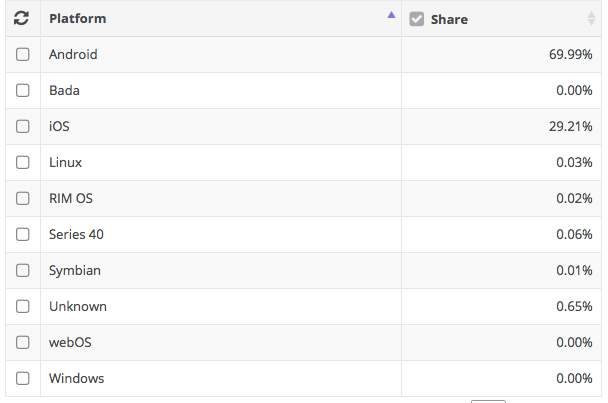
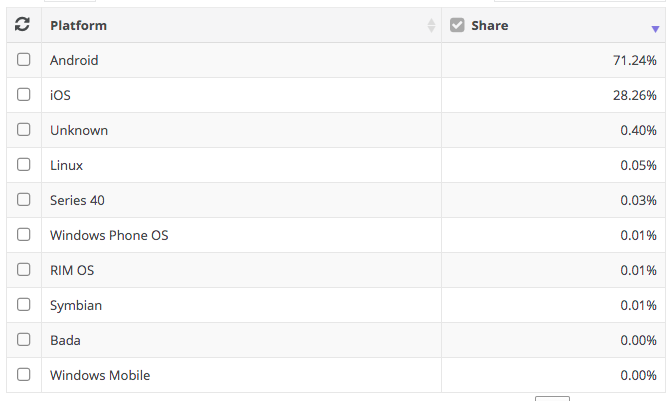
intro-android link update

diff --git a/intro-android/intro_android.html b/intro-android/intro_android.html
@@ -258,6 +258,8 @@ div.polaroid {
 }
 </style>
 
+<p><a href="https://kwanulee.github.io/AndroidProgramming/#1"><strong>목차</strong>: 안드로이드 개요</a></p>
+
 <h1 id="toc_0">안드로이드 소개</h1>
 
 <h2 id="toc_1">1. 안드로이드란?</h2>
@@ -302,19 +304,19 @@ div.polaroid {
 <ul>
 <li><p><strong>운영체제 (Operating System)</strong>은 시스템 하드웨어(CPU, Memory, IO Device)를 관리할 뿐 아니라 응용 소프트웨어를 실행하기 위하여 하드웨어 추상화 플랫폼과 공통 시스템 서비스를 제공하는 시스템 소프트웨어이다. [<a href="https://ko.wikipedia.org/wiki/%EC%9A%B4%EC%98%81_%EC%B2%B4%EC%A0%9C">1</a>]</p>
 
-<p><img src="https://upload.wikimedia.org/wikipedia/ko/thumb/a/a3/Operating_system_placement_kor.png/200px-Operating_system_placement_kor.png"></p></li>
+<p><img src="https://upload.wikimedia.org/wikipedia/commons/thumb/a/a3/Operating_system_placement_kor.png/180px-Operating_system_placement_kor.png"></p></li>
 <li><p><strong>모바일 운영체제</strong>는 모바일 기기에서 실행되는 운영체제</p>
 
 <ul>
 <li>모바일 하드웨어 자원을 직접 제어하고 관리</li>
 <li>모바일 앱 (응용 소프트웨어)를 실행하기 위한 플랫폼을 제공</li>
 </ul></li>
-<li><p>모바일 운영체제의 종류 및 시장 점유률 (2020.2)</p>
+<li><p>모바일 운영체제의 종류 및 시장 점유률 (2021.1)</p>
 
 <p><img src="figure/market_share.png"></p>
 
 <ul>
-<li>출처: <a href="https://netmarketshare.com">https://netmarketshare.com</a></li>
+<li>출처: <a href="https://netmarketshare.com/operating-system-market-share.aspx?options=%7B%22filter%22%3A%7B%22%24and%22%3A%5B%7B%22deviceType%22%3A%7B%22%24in%22%3A%5B%22Mobile%22%5D%7D%7D%5D%7D%2C%22dateLabel%22%3A%22Trend%22%2C%22attributes%22%3A%22share%22%2C%22group%22%3A%22platform%22%2C%22sort%22%3A%7B%22share%22%3A-1%7D%2C%22id%22%3A%22platformsMobile%22%2C%22dateInterval%22%3A%22Monthly%22%2C%22dateStart%22%3A%222019-11%22%2C%22dateEnd%22%3A%222020-10%22%2C%22segments%22%3A%22-1000%22%7D">https://netmarketshare.com/operating-system-market-share.aspx?options=%7B%22filter%22%3A%7B%22%24and%22%3A%5B%7B%22deviceType%22%3A%7B%22%24in%22%3A%5B%22Mobile%22%5D%7D%7D%5D%7D%2C%22dateLabel%22%3A%22Trend%22%2C%22attributes%22%3A%22share%22%2C%22group%22%3A%22platform%22%2C%22sort%22%3A%7B%22share%22%3A-1%7D%2C%22id%22%3A%22platformsMobile%22%2C%22dateInterval%22%3A%22Monthly%22%2C%22dateStart%22%3A%222019-11%22%2C%22dateEnd%22%3A%222020-10%22%2C%22segments%22%3A%22-1000%22%7D</a></li>
 </ul></li>
 </ul>
 
@@ -473,10 +475,16 @@ div.polaroid {
 <td>29</td>
 </tr>
 <tr>
-<td></td>
+<td><strong>R</strong></td>
 <td>Android 11</td>
-<td>2020년 2월</td>
+<td>2020년 9월</td>
 <td>30</td>
+</tr>
+<tr>
+<td><strong>S</strong></td>
+<td>Android 12 (preview)</td>
+<td>2021년 2월</td>
+<td>31</td>
 </tr>
 </tbody>
 </table>
@@ -553,6 +561,10 @@ div.polaroid {
 <li><a href="https://ko.wikipedia.org/wiki/%EC%9A%B4%EC%98%81_%EC%B2%B4%EC%A0%9C">https://ko.wikipedia.org/wiki/운영_체제</a></li>
 <li><a href="https://developer.android.com/guide/platform/">https://developer.android.com/guide/platform/</a></li>
 </ol>
+
+<hr>
+
+<p><a href="install_dev_env.html"><strong>다음 학습</strong>: 개발환경 설치</a></p>
 
 
 

diff --git a/intro-android/install_dev_env.html b/intro-android/install_dev_env.html
@@ -265,6 +265,8 @@ div.polaroid2 {
 
 </style>
 
+<p><a href="intro_android.html"><strong>이전 학습</strong>: 안드로이드 소개</a></p>
+
 <h1 id="toc_0">개발환경 설치</h1>
 
 <ol>
@@ -328,6 +330,11 @@ div.polaroid2 {
     <img src="figure/agreement.JPG">
 </div></li>
 <li><p>다운로드한 파일을 더블클릭하여 설치마법사의 안내에 따라 설치</p>
+
+<ul>
+<li>2021년 2월 현재, Android Studio 최신버전은 <strong>4.1.1</strong></li>
+<li>다음 화면 캡처는 <strong>3.5.3</strong> 버전의 설치과정이나, 최신버전의 설치과정과 유사함.</li>
+</ul>
 
 <div class="polaroid2">
     <img src="figure/as-setup1.PNG">
@@ -421,17 +428,21 @@ div.polaroid2 {
 <ul>
 <li>Android SDK Build-Tools</li>
 <li>Android SDK Platform-Tools</li>
-<li>Android SDK Tools</li>
 <li>Android Emulator</li>
 </ul></li>
 <li>추가 지원 도구
 
 <ul>
 <li>Intel X86 Emulator Accerlerator (HAXM installer)</li>
+<li>Google Play services</li>
 </ul></li>
 </ul></li>
 </ul></li>
 </ol>
+
+<hr>
+
+<p><a href="start-android-project.html"><strong>다음 학습</strong>: 안드로이드 앱 시작하기</a></p>
 
 
 

diff --git a/intro-android/start-android-project.html b/intro-android/start-android-project.html
@@ -258,6 +258,8 @@ div.polaroid {
 }
 </style>
 
+<p><a href="install_dev_env.html"><strong>이전 학습</strong>: 개발환경 설치</a></p>
+
 <h1 id="toc_0">안드로이드 앱 시작하기</h1>
 
 <ol>

diff --git a/Readme.md b/Readme.md
@@ -2,25 +2,28 @@
 # 안드로이드 프로그래밍 강의자료
 
 
+<a name="1"></a>
 ## 1. 안드로이드 개요
-
 - [안드로이드 소개](http://kwanulee.github.io/AndroidProgramming/intro-android/intro_android.html) 
 - [개발환경 설치](http://kwanulee.github.io/AndroidProgramming/intro-android/install_dev_env.html) 
 - [안드로이드 앱 시작하기](http://kwanulee.github.io/AndroidProgramming/intro-android/start-android-project.html)   
 
+<a name="2"></a>
 ## 2. 안드로이드 앱 프로젝트
 - [안드로이드 앱 기본](http://kwanulee.github.io/AndroidProgramming/android-project/android_app_basic.html)
 - [안드로이드 앱 프로젝트 기본](http://kwanulee.github.io/AndroidProgramming/android-project/android_project_basic.html)
 - [프로젝트 빌드](http://kwanulee.github.io/AndroidProgramming/android-project/project-build.html)
 - [[실습]](http://kwanulee.github.io/AndroidProgramming/android-project/안드로이드_프로젝트_실습.html) 
 
+<a name="3"></a>
 ## 3. 안드로이드 UI
 - [안드로이드 UI 기본](http://kwanulee.github.io/AndroidProgramming/android-ui/ui-intro.html)
 - [뷰: 위젯 (Widget)](https://kwanulee.github.io/AndroidProgramming/android-ui/ui-widget.html)
 - [뷰그룹: 레이아웃 (Layout)](https://kwanulee.github.io/AndroidProgramming/android-ui/ui-layout.html)
 - [Margin, Padding, Gravity](https://kwanulee.github.io/AndroidProgramming/android-ui/ui-mpg.html)
 - [[실습]](http://kwanulee.github.io/AndroidProgramming/android-ui/안드로이드_UI_실습.html)
- 
+
+<a name="4"></a> 
 ## 4. 어댑터 뷰 (Adapter View)
 - [어댑터뷰 개념](http://kwanulee.github.io/AndroidProgramming/adapter-view/adapterview.html)
 - [리스트뷰](http://kwanulee.github.io/AndroidProgramming/adapter-view/listview.html)
@@ -28,38 +31,44 @@
 - [커스텀항목뷰](http://kwanulee.github.io/AndroidProgramming/adapter-view/custom-item-view.html)
 - [[실습]](http://kwanulee.github.io/AndroidProgramming/adapter-view/adapterview-practice.html)
 
+<a name="5"></a>
 ## 5. 액티비티와 인텐트 (Activity and Intent)
 - [액티비티](http://kwanulee.github.io/AndroidProgramming/activity-intent/activity.html) 
 - [인텐트](http://kwanulee.github.io/AndroidProgramming/activity-intent/intent.html) 
 - [액티비티 간의 통신](http://kwanulee.github.io/AndroidProgramming/activity-intent/activity-communication.html) 
 - [액티비티 수명주기](http://kwanulee.github.io/AndroidProgramming/activity-intent/activity-lifecycle.html) 
 
+<a name="6"></a>
 ## 6. 프래그먼트 (Fragment)
 - [프래그먼트 개요](http://kwanulee.github.io/AndroidProgramming/fragment/fragment-overview.html) 
 - [프래그먼트 사용하기](http://kwanulee.github.io/AndroidProgramming/fragment/fragment-usage.html) 
 - [프래그먼트 예제](http://kwanulee.github.io/AndroidProgramming/fragment/fragment-example.html) 
 - [[실습]](http://kwanulee.github.io/AndroidProgramming/fragment/fragment-practice.html)
 
+<a name="7"></a>
 ## 7. 탐색 (Navigation)
 - [앱바와 액션 추가 및 처리](http://kwanulee.github.io/AndroidProgramming/navigation/actionbar.html)
 - [Swipe Views with Tabs](http://kwanulee.github.io/AndroidProgramming/navigation/swiping-views.html)
 
+<a name="8"></a>
 ## 8. 데이터 저장 및 관리 1
 - [설정](http://kwanulee.github.io/AndroidProgramming/data-management/sharedpreferences.html) 
 - [파일](http://kwanulee.github.io/AndroidProgramming/data-management/file.html) 
 
 
-
+<a name="9"></a>
 ## 9. 데이터베이스
 - [데이터베이스, SQL 기본](http://kwanulee.github.io/AndroidProgramming/data-management/database_overview.html) 
 - [SQLite 라이브러리 시작하기](http://kwanulee.github.io/AndroidProgramming/data-management/sqlite.html) 
 - [[실습]](http://kwanulee.github.io/AndroidProgramming/data-management/datamanagement_lab.html)
 
+<a name="10"></a>
 ## 10. Content Provider
 - [콘텐츠 제공자](http://kwanulee.github.io/AndroidProgramming/data-management/content-provider.html) 
 - [캘린더 제공자](http://kwanulee.github.io/AndroidProgramming/data-management/calendar-provider.html)
 -  [[실습]](http://kwanulee.github.io/AndroidProgramming/data-management/sqlite-content-provider-lab.html)
 
+<a name="11"></a>
 ## 11. 멀티미디어
 - [오디오 재생하기](http://kwanulee.github.io/AndroidProgramming/multimedia/multimedia.html#1)
 - [동영상 재생하기](http://kwanulee.github.io/AndroidProgramming/multimedia/multimedia.html#2)
@@ -69,25 +78,21 @@
 
 -  [[실습]](http://kwanulee.github.io/AndroidProgramming/multimedia/multimedia_lab.html)
 
+<a name="12"></a>
 ## 12. 위치 기반 서비스 및 지도
 - [위치기반 서비스](http://kwanulee.github.io/AndroidProgramming/location_map/location.html) 
 - [지도](http://kwanulee.github.io/AndroidProgramming/location_map/map.html) 
 -  [[실습]](http://kwanulee.github.io/AndroidProgramming/location_map/location-map-lab.html)
 
-
+<a name="13"></a>
 ## 13. 서비스와 브로드캐스트 리시버, 알림
 - [서비스](http://kwanulee.github.io/AndroidProgramming/service/service.html)
 - [브로드캐스트 리시버](http://kwanulee.github.io/AndroidProgramming/broadcast_notification/broadcast_receiver.html)
 - [알림 (Notification)](http://kwanulee.github.io/AndroidProgramming/broadcast_notification/notification.html)
 -  [[실습]](http://kwanulee.github.io/AndroidProgramming/broadcast_notification/broadcast-notification-lab.html)
 
-## 14. 센서 및 NFC
-- 방향 센서
-- 가속도 센서
-- NFC
-- [[실습]]()
-
-## 15. 애니메이션 및 그래픽
+<a name="14"></a>
+## 14. 애니메이션 및 그래픽
 - [애니메이션](http://kwanulee.github.io/AndroidProgramming/animation-graphics/animation.html) 
 - [그래픽](http://kwanulee.github.io/AndroidProgramming/animation-graphics/graphics.html) 
 -  [[실습]](http://kwanulee.github.io/AndroidProgramming/animation-graphics/animation_lab.html)

diff --git a/intro-android/intro_android.md b/intro-android/intro_android.md
@@ -6,6 +6,9 @@ div.polaroid {
 	margin-bottom: 0.5cm;
 }
 </style>
+
+[**목차**: 안드로이드 개요](https://kwanulee.github.io/AndroidProgramming/#1)
+
 # 안드로이드 소개
 
 
@@ -28,16 +31,16 @@ div.polaroid {
 ### 1.2 모바일 운영체제
 - **운영체제 (Operating System)**은 시스템 하드웨어(CPU, Memory, IO Device)를 관리할 뿐 아니라 응용 소프트웨어를 실행하기 위하여 하드웨어 추상화 플랫폼과 공통 시스템 서비스를 제공하는 시스템 소프트웨어이다. [[1](https://ko.wikipedia.org/wiki/운영_체제)]
 	
-	<img src="https://upload.wikimedia.org/wikipedia/ko/thumb/a/a3/Operating_system_placement_kor.png/200px-Operating_system_placement_kor.png">
+	<img src="https://upload.wikimedia.org/wikipedia/commons/thumb/a/a3/Operating_system_placement_kor.png/180px-Operating_system_placement_kor.png">
 
 - **모바일 운영체제**는 모바일 기기에서 실행되는 운영체제
 	- 모바일 하드웨어 자원을 직접 제어하고 관리
 	- 모바일 앱 (응용 소프트웨어)를 실행하기 위한 플랫폼을 제공
-- 모바일 운영체제의 종류 및 시장 점유률 (2020.2)
+- 모바일 운영체제의 종류 및 시장 점유률 (2021.1)
 
 	<img src="figure/market_share.png">
 	
-	- 출처: https://netmarketshare.com
+	- 출처: https://netmarketshare.com/operating-system-market-share.aspx?options=%7B%22filter%22%3A%7B%22%24and%22%3A%5B%7B%22deviceType%22%3A%7B%22%24in%22%3A%5B%22Mobile%22%5D%7D%7D%5D%7D%2C%22dateLabel%22%3A%22Trend%22%2C%22attributes%22%3A%22share%22%2C%22group%22%3A%22platform%22%2C%22sort%22%3A%7B%22share%22%3A-1%7D%2C%22id%22%3A%22platformsMobile%22%2C%22dateInterval%22%3A%22Monthly%22%2C%22dateStart%22%3A%222019-11%22%2C%22dateEnd%22%3A%222020-10%22%2C%22segments%22%3A%22-1000%22%7D
 
 ### 1.3 모바일 플랫폼
 - **기차역 플랫폼**
@@ -85,7 +88,8 @@ div.polaroid {
 | **O**reo | Android 8.0| 2017년 8월| 26-27|
 | **P**ie | Android 9.0| 2018년 8월| 28|
 | **Q** | Android 10 | 2019년 9월| 29|
-| |  Android 11 | 2020년 2월 | 30 |
+| **R**|  Android 11 | 2020년 9월 | 30 |
+| **S**|  Android 12 (preview) | 2021년 2월 | 31 |
 
 ### 2.2 안드로이드 플랫폼 아키텍처 [[2](https://developer.android.com/guide/platform/)]
 - Linux 기반의 오픈 소스 소프트웨어 스택 
@@ -126,4 +130,7 @@ div.polaroid {
 1. https://ko.wikipedia.org/wiki/운영_체제
 2. https://developer.android.com/guide/platform/
 
+---
+
+[**다음 학습**: 개발환경 설치](install_dev_env.html)
 	

diff --git a/intro-android/install_dev_env.md b/intro-android/install_dev_env.md
@@ -13,6 +13,10 @@ div.polaroid2 {
 }
 
 </style>
+
+
+[**이전 학습**: 안드로이드 소개](intro_android.html)
+
 # 개발환경 설치
 1. [Java SE Development Kit 8 설치](#install_jdk)
 2. [Android Studio 설치](#install_android_studio)
@@ -63,7 +67,9 @@ div.polaroid2 {
 	</div>
 
 3. 다운로드한 파일을 더블클릭하여 설치마법사의 안내에 따라 설치
-
+	- 2021년 2월 현재, Android Studio 최신버전은 **4.1.1**
+	- 다음 화면 캡처는 **3.5.3** 버전의 설치과정이나, 최신버전의 설치과정과 유사함.
+	
 	<div class="polaroid2">
 	 	<img src="figure/as-setup1.PNG">
 	</div>
@@ -108,6 +114,7 @@ div.polaroid2 {
     <div class="polaroid2">
     <img src="figure/as-setup14.PNG">
   </div>
+  
 
 
 ## <a name="sdk_tools_plaforms"></a>3. SDK Manager를 이용하여 최신 SDK 도구와 플랫폼을 설치
@@ -154,7 +161,11 @@ div.polaroid2 {
 		- 기본 SDK 도구
 			* Android SDK Build-Tools
 			* Android SDK Platform-Tools
-			* Android SDK Tools
 			* Android Emulator
 		- 추가 지원 도구
 			* Intel X86 Emulator Accerlerator (HAXM installer)
+			* Google Play services
+
+---
+
+[**다음 학습**: 안드로이드 앱 시작하기](start-android-project.html)

diff --git a/intro-android/start-android-project.md b/intro-android/start-android-project.md
@@ -7,6 +7,8 @@ div.polaroid {
 }
 </style>
 
+[**이전 학습**: 개발환경 설치](install_dev_env.html)
+
 # 안드로이드 앱 시작하기
 1. [**Android Studio**을 이용한 HelloAndroid 프로젝트 만들기](#start-android)
 2. [**에뮬레이터 (Android Virtual Device, AVD)** 만들기](#create-avd)
